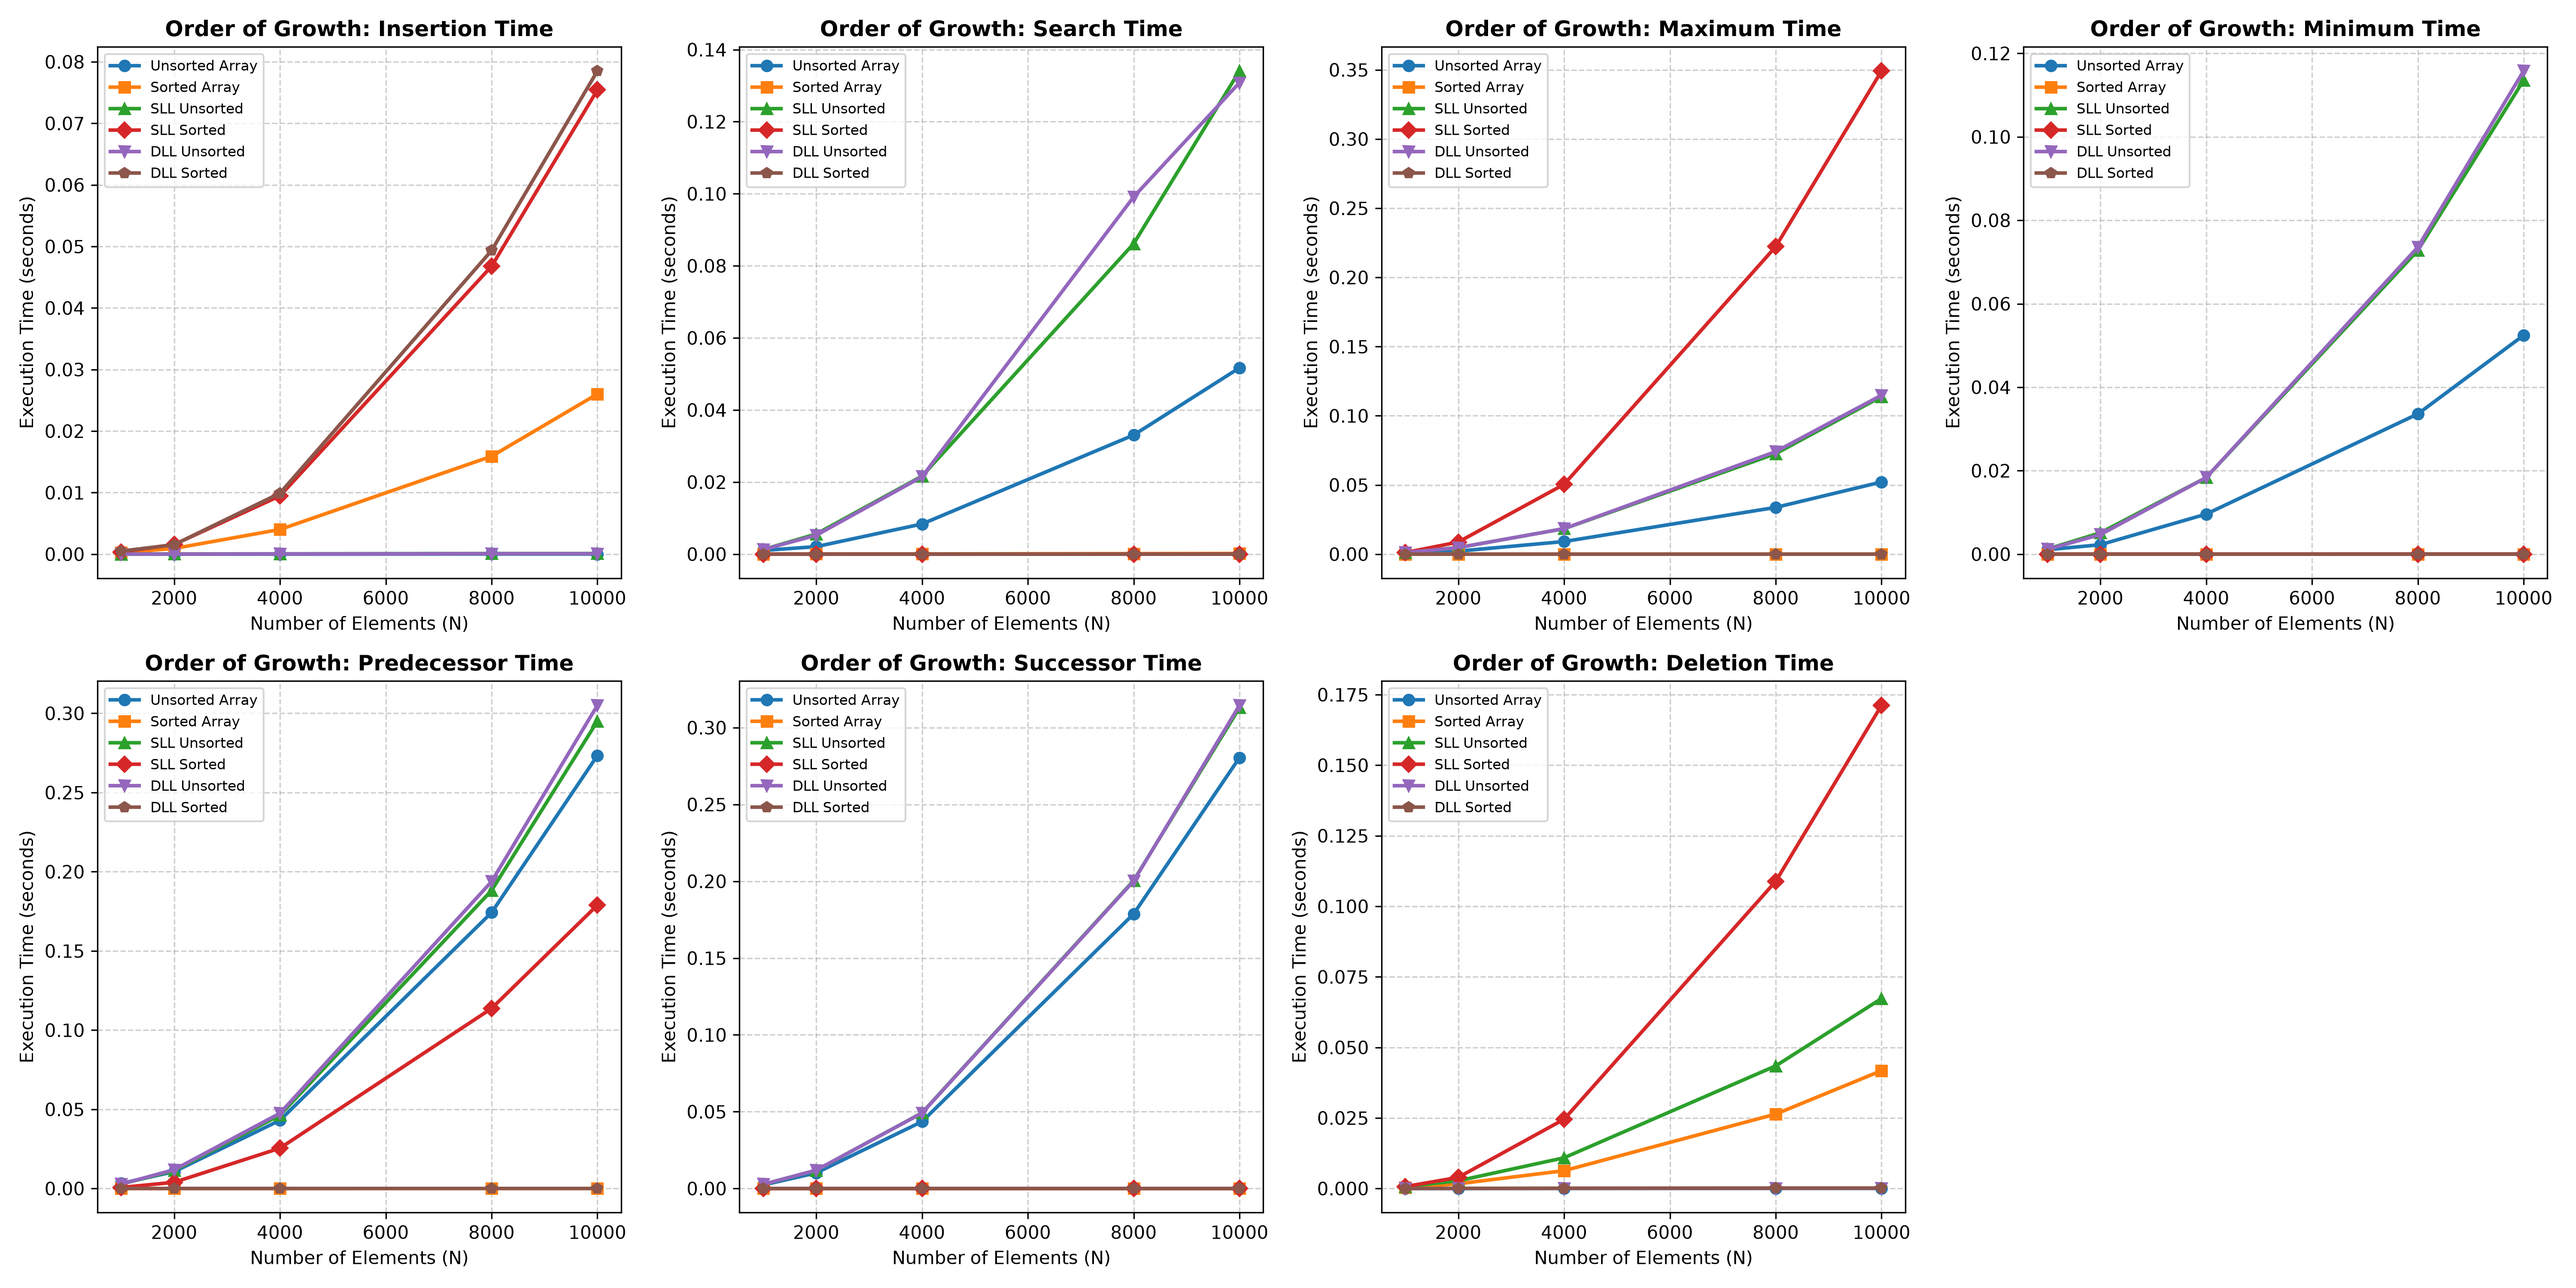
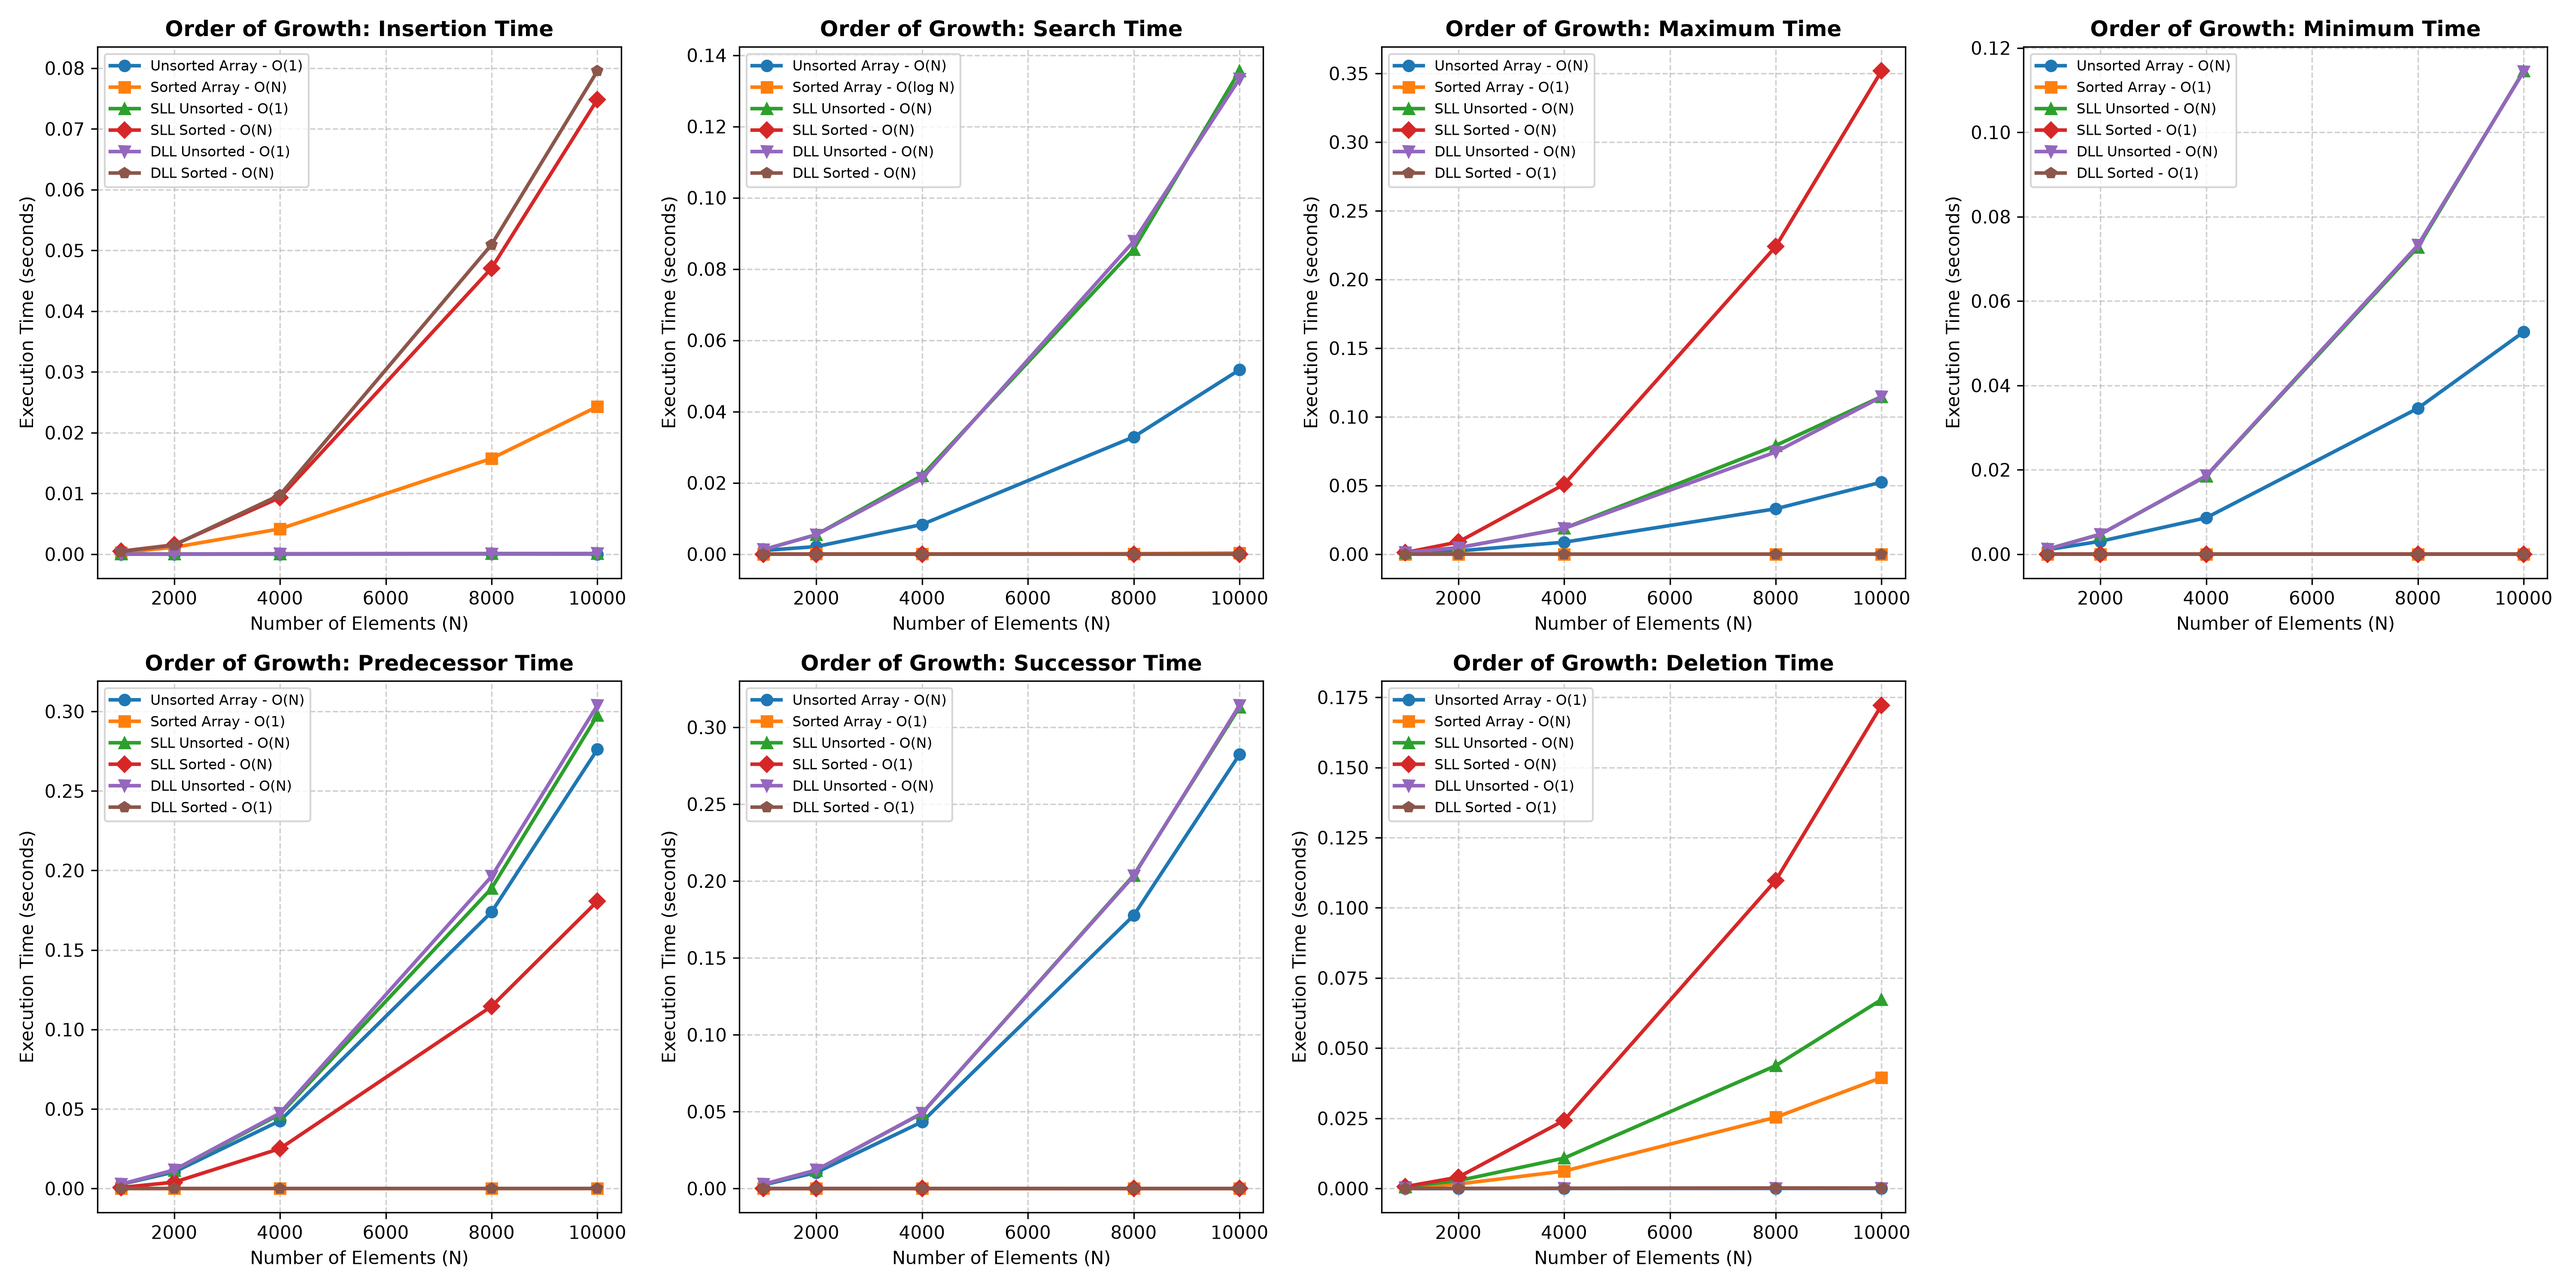
Made some changes

diff --git a/Lab_2/Question_1/q1_plot.py b/Lab_2/Question_1/q1_plot.py
@@ -89,6 +89,6 @@ for i, op in enumerate(operations):
 axes[7].axis('off')
 
 plt.tight_layout()
-plt.savefig('q1_plot.png', dpi=300)
-print("Plot successfully generated and saved as 'q1_plot.png'.")
+plt.savefig('q1_plot_results.png', dpi=300)
+print("Plot successfully generated and saved as 'q1_plot_results.png'.")
 plt.show()
